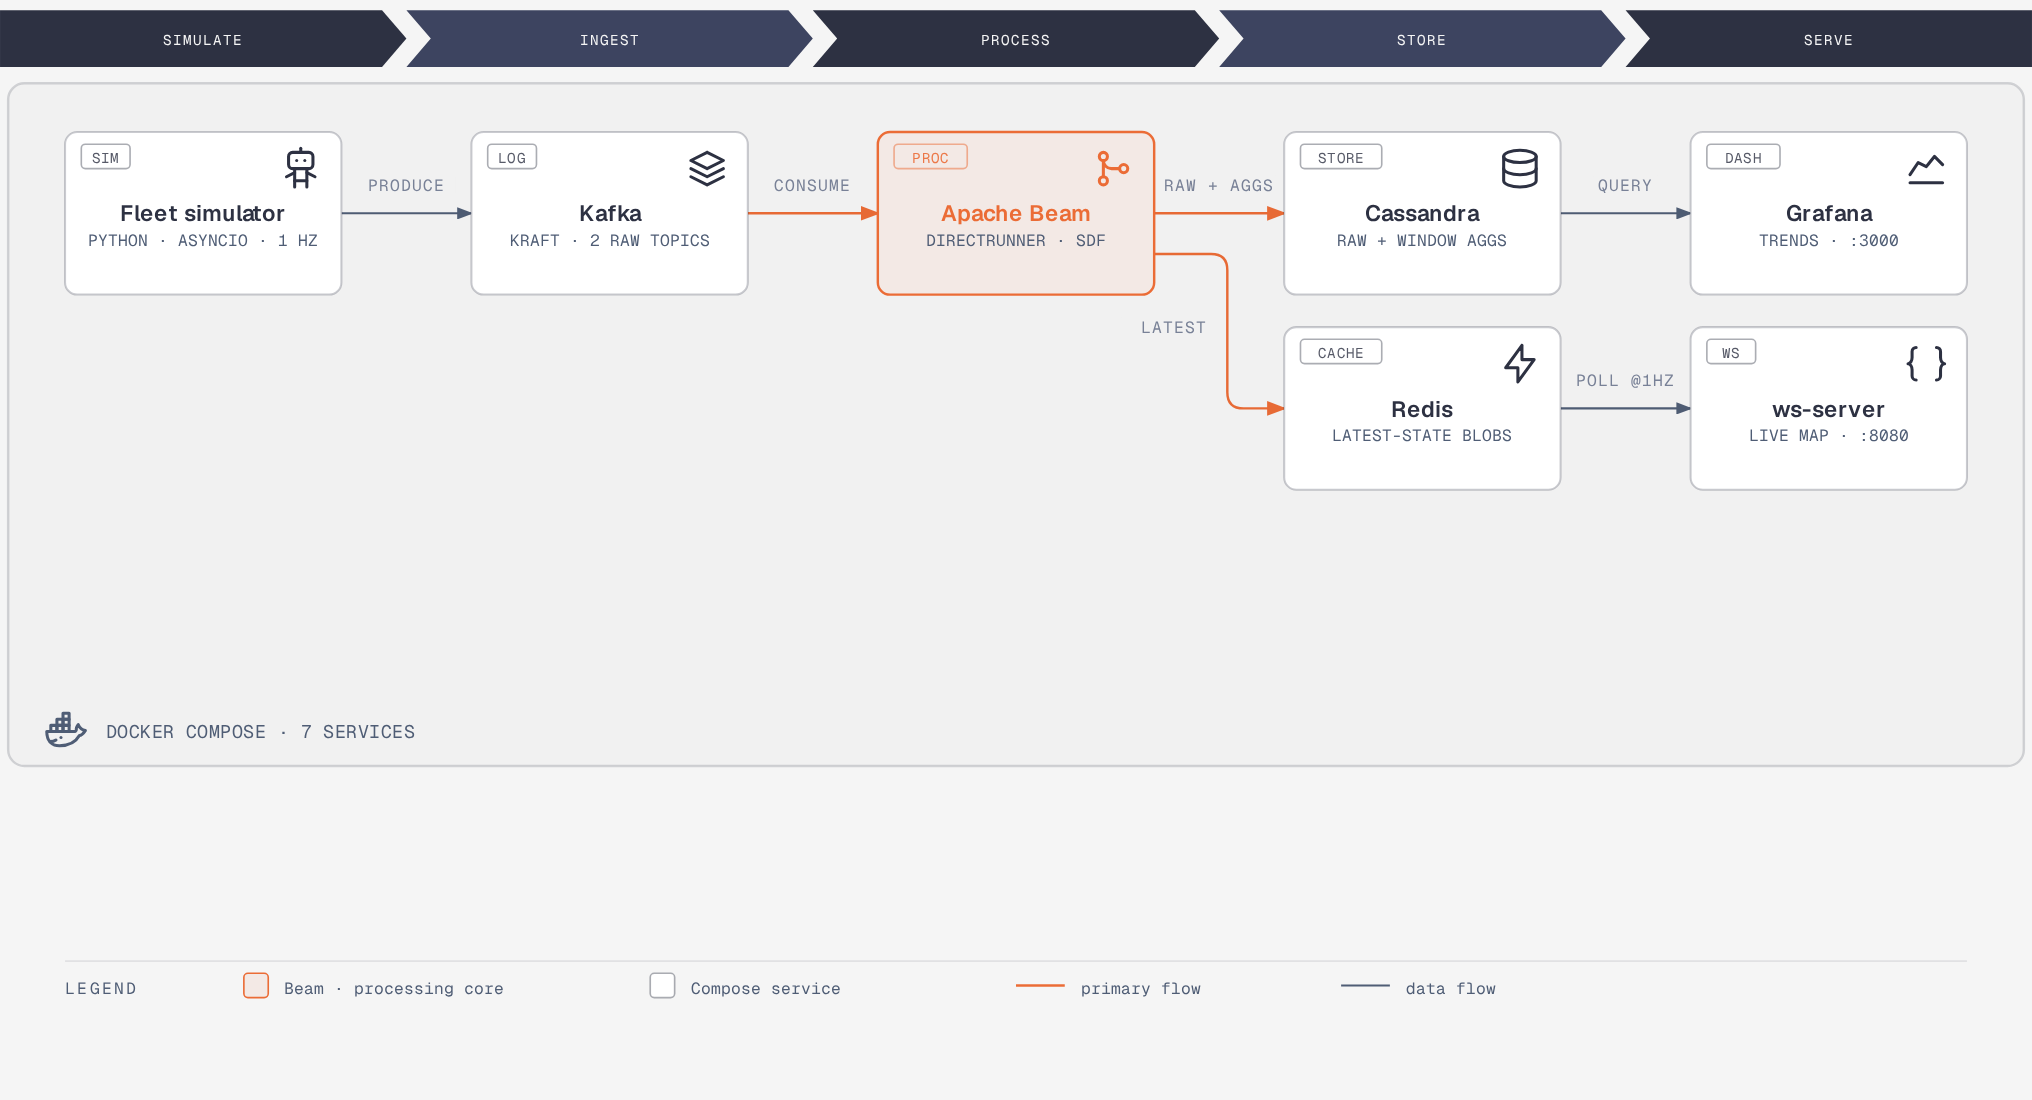
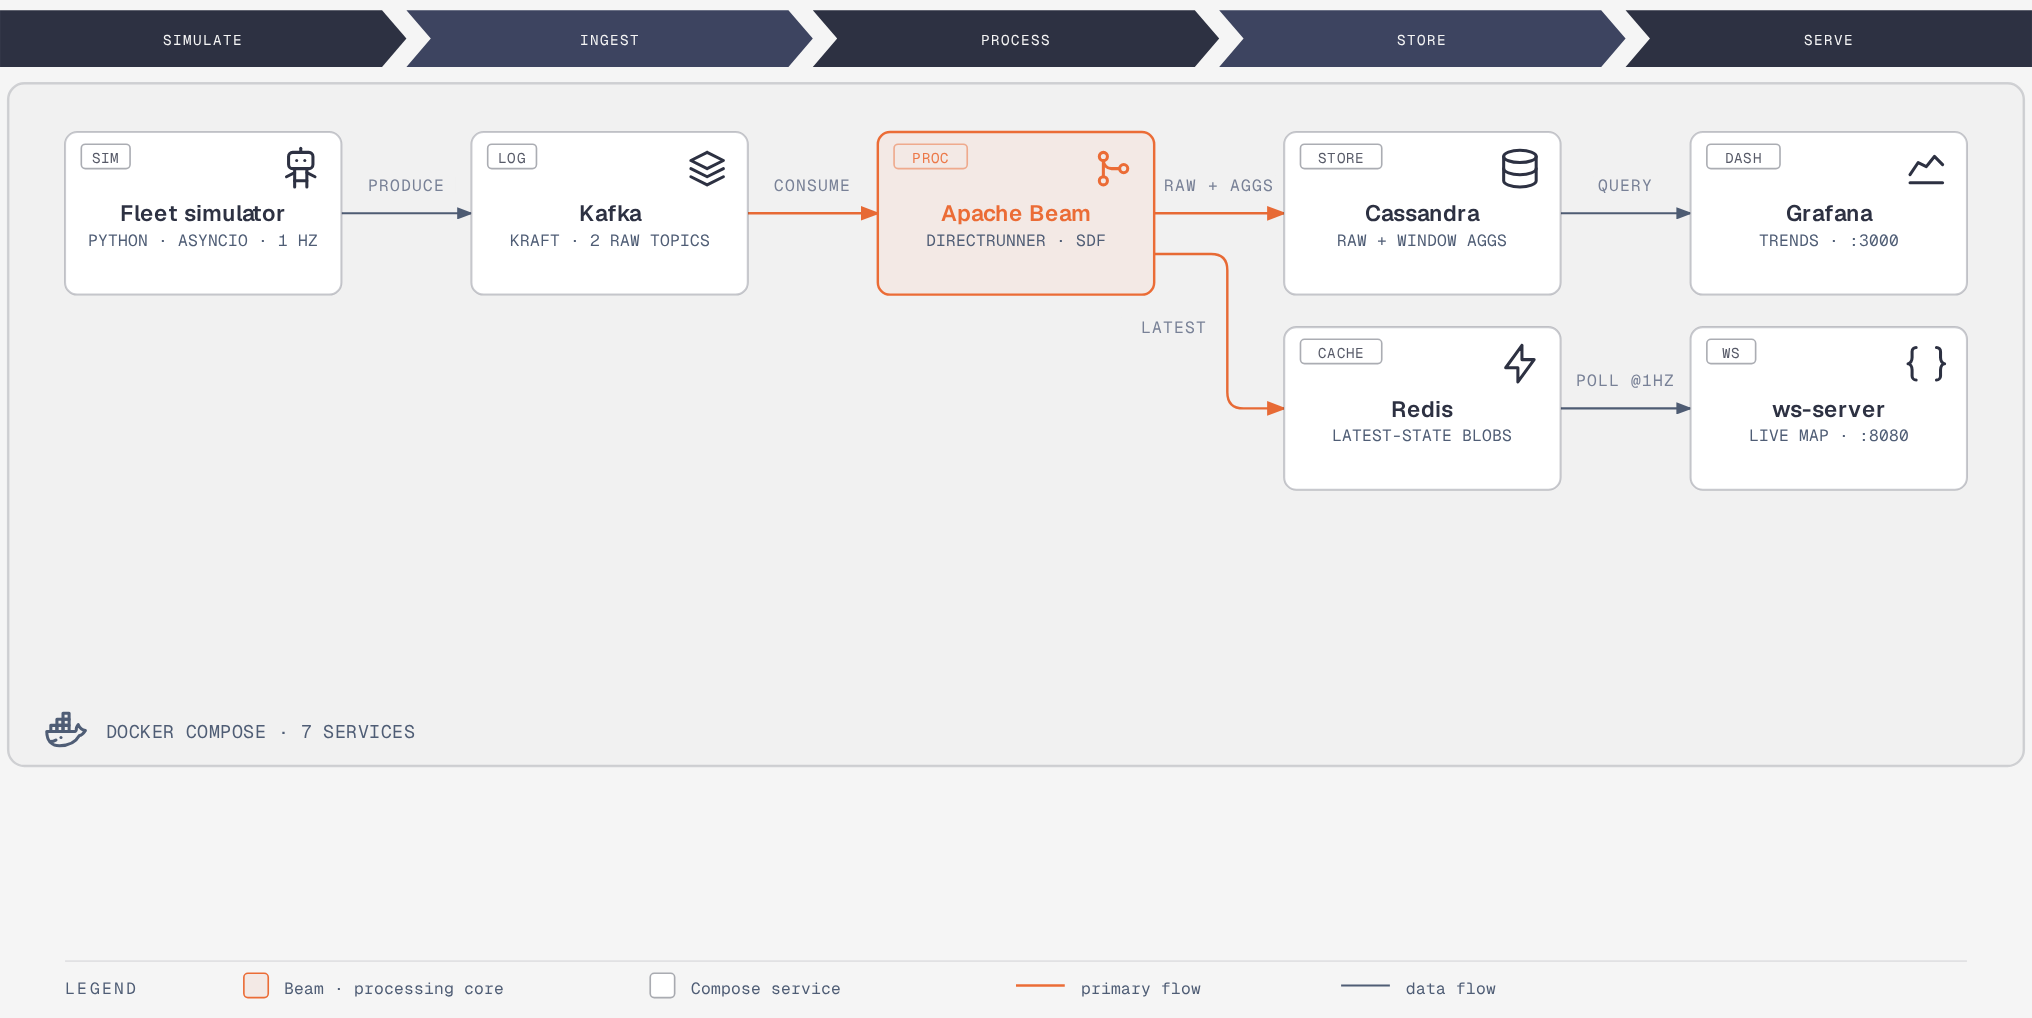
docs: edit readme and add screenshots

diff --git a/README.md b/README.md
@@ -1,8 +1,6 @@
 # Realtime Fleet Telemetry
 
-**Live fleet intelligence, end to end.** Two delivery vehicles stream their engine and GPS
-telemetry through a real streaming stack — and turn it into a live fleet map, per-minute
-operational KPIs, and driving-safety signals a fleet operator could actually act on.
+**Live fleet intelligence, end to end.** Two delivery vehicles stream their engine and GPS telemetry through a real streaming stack, and turn it into a live fleet map, per-minute operational KPIs, and driving-safety signals a fleet operator could actually act on.
 
 Everything runs from a single `docker compose up`.
 
@@ -12,13 +10,13 @@ Everything runs from a single `docker compose up`.
 
 Fleet businesses run on questions their data can't answer fast enough:
 
-- *Where is every vehicle right now?* — dispatchers guess.
-- *Is anyone driving in a way that burns fuel or risks an accident?* — discovered after the fact, if at all.
-- *Which engines are heading for a costly breakdown?* — nobody knows until the tow truck does.
+- *Where is every vehicle right now?*
+- *Is anyone driving in a way that burns fuel or risks an accident?*
+- *Which engines are heading for a costly breakdown?*
 
 The data to answer all of this already exists inside every vehicle's ECU. The hard part is
-moving it — continuously, at second-level freshness — from moving vehicles to the people
-making decisions. That's the problem this project demonstrates end to end.
+moving it continuously and real-timey from the moving vehicles to the people
+making decisions.
 
 ## What an operator gets
 
@@ -34,9 +32,10 @@ making decisions. That's the problem this project demonstrates end to end.
 
 ![High-level architecture](docs/architecture-high-level.png)
 
-The vehicles are simulated — but plausibly: traffic-aware speeds on real routes around
-Jakarta and Bandung, engine data derived from motion physics, and driver behaviors that
-produce realistic events. They publish telemetry and driving events to Kafka, where a
+The vehicles are simulated; traffic-aware speeds on real routes around Jakarta and Bandung, engine data derived from motion physics, and driver behaviors that
+produce realistic events. 
+
+They publish telemetry and driving events to Kafka, where a
 streaming pipeline built on Apache Beam processes the feed continuously: raw history lands
 in Cassandra, per-minute and rolling-window aggregates power the KPIs, and each vehicle's
 latest state is pushed to Redis for instant reads. Two dashboards consume the results —
@@ -45,11 +44,11 @@ over WebSocket the moment something happens.
 
 ## Screenshots
 
-<!-- Drop in: docs/screenshot-grafana.png -->
-![Grafana — Fleet Overview](docs/screenshot-grafana.png)
+<!-- Drop in: docs/screenshot-grafana.jpg -->
+![Grafana — Fleet Overview](docs/screenshot-grafana.jpg)
 
-<!-- Drop in: docs/screenshot-dashboard.png -->
-![Live dashboard — map + rolling charts](docs/screenshot-dashboard.png)
+<!-- Drop in: docs/screenshot-dashboard.jpg -->
+![Live dashboard — map + rolling charts](docs/screenshot-dashboard.jpg)
 
 ## Run it
 
@@ -81,13 +80,11 @@ docker exec iot-cassandra cqlsh cassandra 9042 \
 
 </details>
 
-## Trust, but verify
+## Testing, testing
 
-A streaming system that *looks* alive is not the same as one that *is* alive. This repo
-ships a 30-assertion end-to-end suite that runs against the live stack and checks what an
-operator would care about: data is actually flowing (not stale), storage is growing,
+A streaming system that *looks* alive is not the same as one that *is* alive. This repo ships a 30-assertion end-to-end suite that runs against the live stack and checks what an operator would care about: data is actually flowing (not stale), storage is growing,
 dashboards return real query results, browsers receive valid live updates, aggregates
-arrive on schedule, trips are detected — and, deliberately, that **late-arriving data is
+arrive on schedule, trips are detected, and **late-arriving data is
 dropped loudly instead of silently corrupting the KPIs**.
 
 ```bash
@@ -96,21 +93,23 @@ python3 tests/e2e_test.py
 
 ## Design choices worth knowing
 
-- **Two speeds of truth.** "Where is the fleet *now*" is served from Redis
-  (sub-millisecond reads); "what happened" is served from Cassandra
-  (write-optimized history). Each dashboard reads from the store that matches its question.
-- **The schema follows the questions.** Cassandra tables are modeled one per business
-  question, so every dashboard query is a single fast lookup — no joins, no aggregation
-  at query time.
-- **Honest streaming semantics.** Windows flush on schedule with an explicit late-data
-  hold; anything too late is dropped *and logged*, never silently mixed into the KPIs.
+- **Two speeds of truth.** 
+
+  - "Where is the fleet *now*" is served from Redis (sub-millisecond reads); 
+  - "What happened" is served from Cassandra (write-optimized history). Each dashboard reads from the store that matches its question.
+
+- **The schema follows the questions.** 
+  
+  Cassandra tables are modeled one per business question, so every dashboard query is a single fast lookup — no joins, no aggregation at query time.
+
+- **Honest streaming semantics.** 
+
+  Windows flush on schedule with an explicit late-data hold; anything too late is dropped *and logged*, never silently mixed into the KPIs.
   The pipeline's clocks advance from the data's own event time, not the server's.
 
-## What's next
+## What could happen next?
 
-- **Alerting** — engine-temp and harsh-driving thresholds pushed to operators *before*
+- **Alerting**, engine-temp and harsh-driving thresholds pushed to operators *before*
   they become breakdowns or accidents.
-- **Scale-out runner** — swap in Apache Flink to go from demo scale to real fleet volumes
+- **Scale-out runner**, swap in Apache Flink to go from demo scale to real fleet volumes
   without changing the pipeline logic.
-- **Live public demo** — deploy the stack so the dashboards can be explored without
-  running anything locally.
